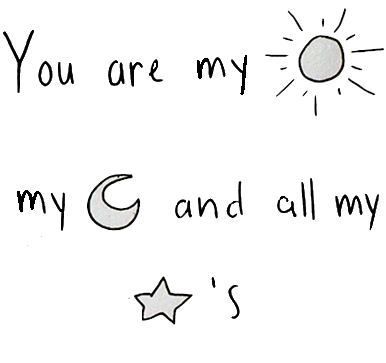
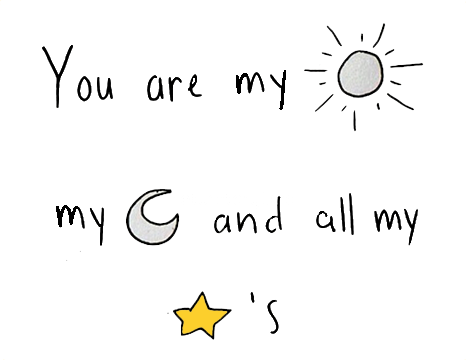
uploaded quoteImage, need to add padding

diff --git a/screens/MemoriesScreen.js b/screens/MemoriesScreen.js
@@ -21,9 +21,11 @@ onPressButton() {
     return (
       
       <ScrollView style={styles.container} contentContainerStyle = {styles.center}>
-     
-        <Image style= {styles.quoteImageContainer} source= {require('../assets/images/sunMoonStars.png')} />
-       
+        
+        <View style = {styles.quoteImageContainer}>
+        <Image source= {require('../assets/images/sunMoonStars.png')} />
+        </View>
+
          <View style = {styles.buttonContainer}>
         <Button 
           onPress={() => {
@@ -46,7 +48,6 @@ onPressButton() {
 const styles = StyleSheet.create({
   container: {
     flex: 1,
-    paddingTop: 15, 
     backgroundColor: '#bc8abd',
 
   
@@ -55,19 +56,21 @@ const styles = StyleSheet.create({
     alignItems: 'center',
     
   },
-  quoteImage: {
-    flex: 1, 
-    height: null, 
-    width: null, 
-    marginLeft: 25,
-    marginRight: 25, 
+  quoteImageContainer: {
 
+   width: null,
+   height: null,
+   
     
+  },
+  quoteImage:
+  {
+    padding: 15
   },
   buttonContainer: {
     marginTop: 25,
     backgroundColor: '#eeccff',
-    marginBottom: 50 
+    marginBottom: 50
   },
   
 });
